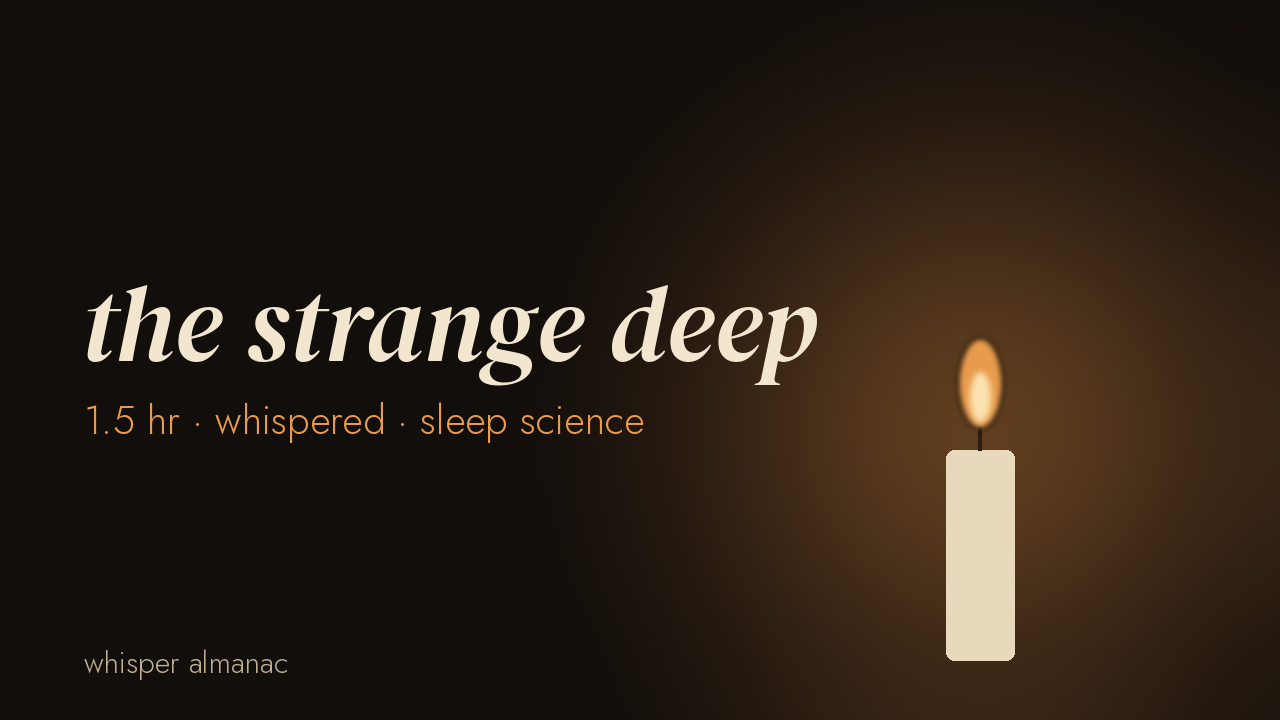
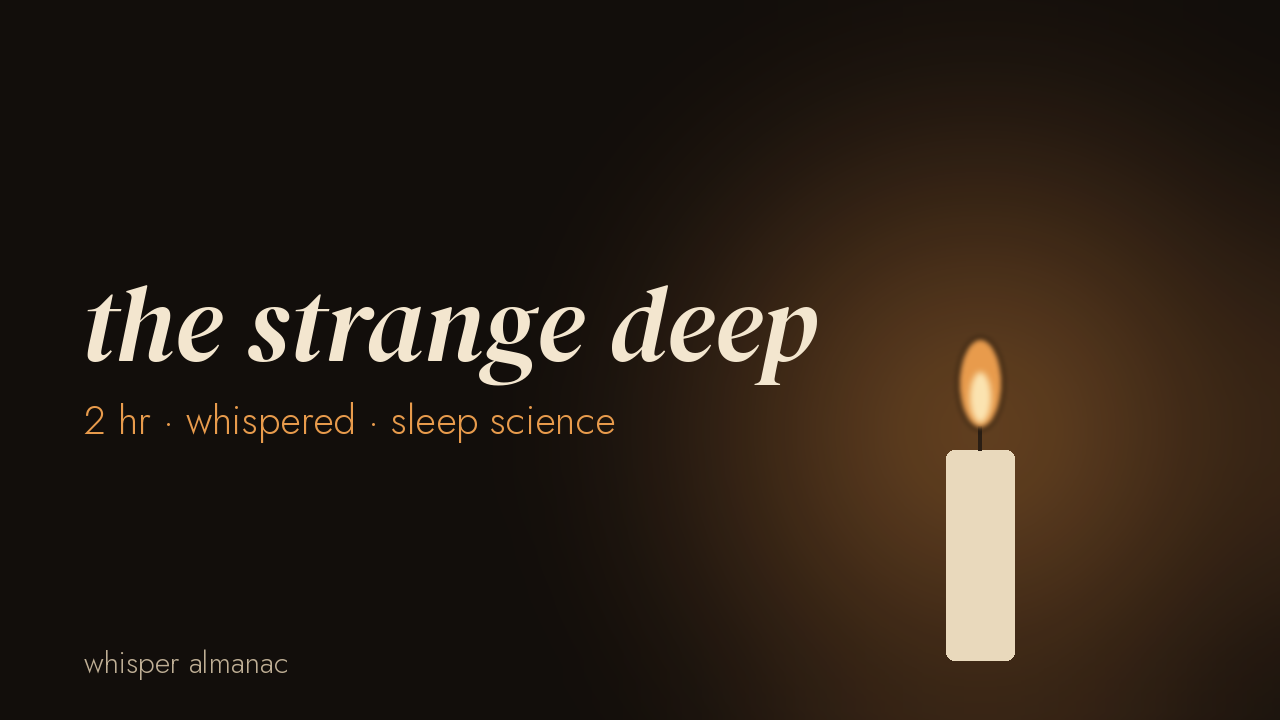
whisper: opening promise in the script check; 3 thumbnail variants per kit
Owner rulings, 8 Nov 2026 (spry brain):
- Every Whisper Almanac episode starts with a plain spoken promise (at most
  ~10 s) naming what it is and its real length, never mid-thought.
  loop/whisper_lane.py script_problems now fails a script without it
  (OPENING_*); render_script and the author write it; the 4 READY scripts
  carry it ("Two hours of the deep ocean, whispered slowly, to help you
  fall asleep.").
- thumbnail() makes variants A/B/C (thumbnail.png stays A, the uploaded
  one), checked by thumbnail_problems (size, dark, ember, distinct). Kits
  regenerated for the 4 waiting episodes.

Changed region(s): [[0.0625, 0.55, 0.5, 0.6111]]

diff --git a/loop/whisper_lane.py b/loop/whisper_lane.py
@@ -137,7 +137,7 @@ def render_script(slug: str, kind: str, title: str, sources: list[str], named: l
         body += ["", f"## Segment {i} · {src}", ""]
         for p in paras:
             body += [p, ""]
-    return "\n".join(head + body).rstrip() + "\n"
+    return add_opening("\n".join(head + body).rstrip() + "\n", slug)
 
 
 def spoken_text(p: dict) -> str:
@@ -196,6 +196,98 @@ def fmt_len(sec: float) -> str:
     return f"{h} h {m:02d} min"
 
 
+# ------------------------------------------------------------- the opening promise
+# The owner's ruling 8 Nov 2026 (spry brain): every episode starts with a
+# plain spoken promise of at most ~10 seconds, naming what it is and its real
+# length ("Two hours of the deep ocean, whispered slowly, to help you fall
+# asleep."), never mid-thought. It is the first paragraph of segment 1.
+OPENING_MAX_S = 10.0
+CONTINUING = re.compile(r"^(?:now|and|so|but|then|still|also|again|next|further|meanwhile|or|as|because)\b", re.I)
+_ONES = ["", "one", "two", "three", "four", "five", "six", "seven", "eight", "nine", "ten"]
+
+
+def spoken_length(seconds: float) -> str:
+    """The real length as a plain spoken phrase, rounded DOWN (never overstated):
+    to the half hour from an hour, to the quarter hour under it."""
+    if seconds >= 3600:
+        halves = int(seconds // 1800)
+        h, half = divmod(halves, 2)
+        base = "an hour" if h == 1 else f"{_ONES[h]} hours"
+        if half:
+            return "an hour and a half" if h == 1 else f"{_ONES[h]} and a half hours"
+        return base
+    q = int(seconds // 900)
+    return {3: "forty-five minutes", 2: "half an hour", 1: "fifteen minutes"}.get(
+        q, f"{max(1, int(seconds // 60))} minutes")
+
+
+def promise_subject(p: dict, c: dict) -> str:
+    if p.get("kind") == "affirmations":
+        t = c["affirmations"]["topics"].get(p.get("meta", {}).get("theme", "money"), {})
+        return t.get("promise") or t.get("topic") or "affirmations"
+    for e in c["episodes"]:
+        if e["slug"] == p.get("slug"):
+            return e.get("promise") or e["topic"]
+    return p.get("meta", {}).get("topic") or "sleep science"
+
+
+def opening_text(p: dict, seconds: float, c: dict) -> str:
+    s = f"{spoken_length(seconds)} of {promise_subject(p, c)}, whispered slowly, to help you fall asleep."
+    return s[0].upper() + s[1:]
+
+
+def _is_opening(para: str) -> bool:
+    return bool(re.search(r"\b(?:hours?|minutes)\b", para) and re.search(r"\basleep\b", para)
+                and len(W.WORD.findall(para)) <= 30)
+
+
+def add_opening(text: str, slug: str, c: dict | None = None) -> str:
+    """Put (or refresh) the opening promise as the first paragraph of segment 1,
+    naming the length the finished script estimates (the promise included)."""
+    import tempfile                                          # noqa: PLC0415
+    c = c or cfg()
+    m = re.search(r"^## Segment 1 · \S+\s*\n\n", text, re.M)
+    if not m:
+        return text
+    rest = text[m.end():]
+    first, _, after = rest.partition("\n\n")
+    if _is_opening(first):
+        rest = after
+    line = ""
+    for _ in range(3):                                       # the promise is part of the length
+        with tempfile.NamedTemporaryFile("w", suffix=".md", delete=False) as t:
+            t.write(text[:m.end()] + (line + "\n\n" if line else "") + rest)
+        try:
+            p = parse(t.name)
+        finally:
+            os.unlink(t.name)
+        new = opening_text({**p, "slug": slug}, estimate_seconds(p, c), c)
+        if new == line:
+            break
+        line = new
+    return text[:m.end()] + line + "\n\n" + rest
+
+
+def opening_problems(p: dict, seconds: float, c: dict) -> list[str]:
+    """A plain promise first: short, the real length, what it is, a whole thought."""
+    first = p["segments"][0]["paragraphs"][0] if p["segments"] and p["segments"][0]["paragraphs"] else ""
+    out = []
+    n = len(W.WORD.findall(first))
+    spoken = n / float(c["pacing"]["speech_wpm"]) * 60
+    if not first or spoken > OPENING_MAX_S + 0.5:
+        out.append(f"OPENING_TOO_LONG the first paragraph is {spoken:.0f} s of speech "
+                   f"(the promise is at most {OPENING_MAX_S:.0f} s): {first[:60]!r}")
+    want = spoken_length(seconds)
+    if want not in first.lower():
+        out.append(f"OPENING_LENGTH the opening must name the real length {want!r} "
+                   f"(estimated {fmt_len(seconds)}): {first[:60]!r}")
+    if not (re.search(r"\bwhisper", first, re.I) and re.search(r"\b(?:sleep|asleep)\b", first, re.I)):
+        out.append(f"OPENING_NOT_NAMED the opening must say it is whispered, for sleep: {first[:60]!r}")
+    if not first[:1].isupper() or CONTINUING.match(first) or not first.rstrip().endswith((".", "!", "?")):
+        out.append(f"OPENING_MID_THOUGHT the opening must be one whole thought, not a continuation: {first[:60]!r}")
+    return out
+
+
 # ------------------------------------------------------------- the checks
 GUARANTEE = re.compile(
     r"\$\s?\d|\bdollars?\b|\bguarantee|\bwill (?:get|receive|win|earn|make|have) (?:\$|\d|a raise|rich|money)|"
@@ -252,6 +344,7 @@ def script_problems(path: Path | str, others: list[Path] | None = None,
         else:
             out += [f"{where}: {x}" for x in affirmation_problems(text)]
     est = estimate_seconds(p, c)
+    out += opening_problems(p, est, c)
     lo, hi = c["lengths"][kind]["min_s"], c["lengths"][kind]["max_s"]
     if not lo <= est <= hi:
         out.append(f"LENGTH estimated {fmt_len(est)}, outside {fmt_len(lo)} to {fmt_len(hi)}")
@@ -397,19 +490,30 @@ def _font(name: str, size: int):
     return ImageFont.truetype(str(FONTS / name), size)
 
 
-def thumbnail(p: dict, seconds: float, out: Path, c: dict | None = None) -> Path:
+# The owner's ruling 8 Nov 2026: three thumbnail variants per episode, the
+# same brand, beside each other in the kit. A (thumbnail.png) is uploaded.
+# Each variant: (candle x, candle y, words x, words anchor "l"/"m", words top y).
+VARIANTS = {"a": (980, 430, 80, "l", 250),
+            "b": (300, 430, 1200, "r", 250),
+            "c": (640, 500, 640, "m", 110)}
+VARIANT_FILES = {"a": "thumbnail.png", "b": "thumbnail-b.png", "c": "thumbnail-c.png"}
+
+
+def thumbnail(p: dict, seconds: float, out: Path, c: dict | None = None,
+              variant: str = "a") -> Path:
     """1280x720: one candle in a dark room (the approved brand). An ember glow
     drawn in code, lowercase italic words, the real length. No faces, no
-    starfields, no pastel purple, no flashes."""
+    starfields, no pastel purple, no flashes. `variant` moves the candle and
+    the words (VARIANTS); the palette, fonts and words stay the brand's."""
     from PIL import Image, ImageDraw, ImageFilter          # noqa: PLC0415
     c = c or cfg()
     b = c["brand"]
     e = episode_cfg(p, c)
     W_, H_ = 1280, 720
+    cx, cy, tx, anchor, ty = VARIANTS[variant]
     img = Image.new("RGB", (W_, H_), b["ground"])
     glow = Image.new("RGB", (W_, H_), b["ground"])
     g = ImageDraw.Draw(glow)
-    cx, cy = 980, 430
     for r, col in ((330, b["glow"]), (190, "#5A3A1E"), (90, "#8A5A2A")):
         g.ellipse((cx - r, cy - r, cx + r, cy + r), fill=col)
     glow = glow.filter(ImageFilter.GaussianBlur(90))
@@ -435,15 +539,55 @@ def thumbnail(p: dict, seconds: float, out: Path, c: dict | None = None) -> Path
     if d.textlength(words, font=font) > 760:
         mid = words.rfind(" ", 0, len(words) // 2 + 4)
         lines = [words[:mid], words[mid + 1:]]
-    y = 250 - (len(lines) - 1) * size // 2
+    y = ty - (len(lines) - 1) * size // 2 if variant != "c" else ty
+    a = {"l": "la", "r": "ra", "m": "ma"}[anchor]
     for ln in lines:
-        d.text((80, y), ln, font=font, fill=b["ink"])
+        d.text((tx, y), ln, font=font, fill=b["ink"], anchor=a)
         y += int(size * 1.05)
     small = _font("Jost-Light.ttf", 40)
-    d.text((84, y + 30), f"{length_label(seconds)} · whispered · sleep science", font=small, fill=b["ember"])
-    d.text((84, 640), "whisper almanac", font=_font("Jost-Light.ttf", 30), fill="#BFAF95")
+    sx = tx + 4 if anchor == "l" else tx
+    d.text((sx, y + 30), f"{length_label(seconds)} · whispered · sleep science", font=small,
+           fill=b["ember"], anchor=a)
+    d.text((sx, 640) if variant != "c" else (84, 640), "whisper almanac",
+           font=_font("Jost-Light.ttf", 30), fill="#BFAF95", anchor=a if variant != "c" else "la")
     out.parent.mkdir(parents=True, exist_ok=True)
     img.save(out, "PNG", optimize=True)
+    return out
+
+
+def thumbnails(p: dict, seconds: float, d: Path, c: dict | None = None) -> list[Path]:
+    """The three variants, A (the uploaded thumbnail.png), B and C, in d."""
+    return [thumbnail(p, seconds, d / VARIANT_FILES[v], c, v) for v in VARIANTS]
+
+
+def thumbnail_problems(paths: list[Path], c: dict | None = None) -> list[str]:
+    """The brand's picture rules, checked on the files: three variants, each
+    1280x720 and dark (one candle in a dark room, dark only), the ember present,
+    and no two alike."""
+    from PIL import Image, ImageChops, ImageStat           # noqa: PLC0415
+    c = c or cfg()
+    ember = tuple(int(c["brand"]["ember"][i:i + 2], 16) for i in (1, 3, 5))
+    out = []
+    if len(paths) != len(VARIANTS):
+        out.append(f"THUMB_VARIANTS {len(paths)} thumbnails, {len(VARIANTS)} required")
+    imgs = []
+    for f in paths:
+        if not Path(f).exists():
+            out.append(f"THUMB_MISSING {Path(f).name}")
+            continue
+        im = Image.open(f).convert("RGB")
+        imgs.append((Path(f).name, im))
+        if im.size != (1280, 720):
+            out.append(f"THUMB_SIZE {Path(f).name} is {im.size[0]}x{im.size[1]}, not 1280x720")
+        if sum(ImageStat.Stat(im.convert("L")).mean) > 70:
+            out.append(f"THUMB_NOT_DARK {Path(f).name}: the brand is dark only")
+        small = im.resize((160, 90))
+        if not any(sum(abs(a - b) for a, b in zip(px, ember)) < 60 for px in small.getdata()):
+            out.append(f"THUMB_NO_EMBER {Path(f).name}: no candle flame")
+    for i in range(len(imgs)):
+        for j in range(i + 1, len(imgs)):
+            if not ImageChops.difference(imgs[i][1], imgs[j][1]).getbbox():
+                out.append(f"THUMB_SAME {imgs[i][0]} and {imgs[j][0]} are the same picture")
     return out
 
 
@@ -485,7 +629,9 @@ def kit(slug: str, measured_s: float | None = None, seg_starts: list[float] | No
             meta.update({k: prev[k] for k in UPLOAD_KEYS if k in prev})
     d = KITS / slug
     d.mkdir(parents=True, exist_ok=True)
-    thumbnail(p, secs, d / "thumbnail.png", c)
+    thumbs = thumbnails(p, secs, d, c)
+    meta["thumbnails"] = [x.name for x in thumbs]
+    meta["thumbnail_problems"] = thumbnail_problems(thumbs, c)
     (d / "kit.json").write_text(json.dumps(meta, indent=2, ensure_ascii=False) + "\n")
     return meta
 

diff --git a/loop/tests/test_whisper_lane.py b/loop/tests/test_whisper_lane.py
@@ -12,7 +12,10 @@
      the REAL one (rounded down), and the upload is private;
   e. the Mac night with no whisper sample is the GREEN owner_action stop
      WHISPER_SAMPLE_MISSING that names the exact place to drop the file -
-     and the same night with a sample present goes past that stop.
+     and the same night with a sample present goes past that stop;
+  b2. a script without the opening promise (the real length, whispered, for
+     sleep, a whole thought, at most ~10 s) fails the check;
+  d2. the kit makes 3 thumbnail variants, each 1280x720, dark, distinct.
 
 Every committed script in scripts/whisper/ must pass (zero scripts = fail).
 """
@@ -95,6 +98,23 @@ with tempfile.TemporaryDirectory() as td:
     twin = write("twin", segs)
     broken("copy", segs, "NOT_DISTINCT", others=[twin])
 
+    # the opening promise (owner, 8 Nov 2026): a script that starts mid-thought,
+    # without the plain promise naming what it is and its real length, fails
+    good_open = WL.parse(good)["segments"][0]["paragraphs"][0]
+    check(not [x for x in base if x.startswith("OPENING")], f"(b) a script with the promise fails: {base[:3]}")
+    for label, swap in (("no-opening", None),
+                        ("wrong-length", good_open.replace("Two hours", "Three hours")),
+                        ("not-named", "Two hours of the deep sea."),
+                        ("too-long", good_open + " " + " ".join(["The water is calm and dark."] * 4))):
+        txt = good.read_text()
+        txt = txt.replace(good_open + "\n\n", "" if swap is None else swap + "\n\n", 1)
+        bad = td / f"{label}.md"
+        bad.write_text(txt)
+        probs = WL.script_problems(bad, others=[])
+        check(any(x.startswith("OPENING") for x in probs), f"(b) {label}: the opening rule is not enforced: {probs[:3]}")
+    check(WL.spoken_length(2 * 3600 + 4 * 60) == "two hours" and WL.spoken_length(48 * 60) == "forty-five minutes",
+          "(b) the promise's length is not the real one, rounded down")
+
 # -- c. affirmations guardrail -----------------------------------------------
 for bad in ("You will get $10,000 by Friday.", "Your ex will text you tonight.",
             "My body heals itself as I sleep."):
@@ -121,6 +141,18 @@ check(any("LENGTH_NOT_REAL" in x for x in WL.meta_problems(meta, 3 * 3600 + 5, c
 pub = json.loads(json.dumps(meta))
 pub["body"]["status"]["privacyStatus"] = "public"
 check(any("PRIVATE" in x for x in WL.meta_problems(pub, secs, c)), "(d) a public upload passes")
+
+# -- d2. three thumbnail variants (owner, 8 Nov 2026), each in the brand ---
+with tempfile.TemporaryDirectory() as td:
+    ep = WL.parse(WL.SCRIPTS / "the-deep-ocean-at-night.md")
+    thumbs = WL.thumbnails(ep, WL.estimate_seconds(ep, c), Path(td), c)
+    check(len(thumbs) == 3 and thumbs[0].name == "thumbnail.png",
+          f"(d2) the kit does not make 3 variants with A as thumbnail.png: {[t.name for t in thumbs]}")
+    check(not WL.thumbnail_problems(thumbs, c), f"(d2) a variant breaks the brand: {WL.thumbnail_problems(thumbs, c)}")
+    check(any("THUMB_SAME" in x for x in WL.thumbnail_problems([thumbs[0]] * 3, c)),
+          "(d2) three copies of one picture pass as three variants")
+    check(any("THUMB_VARIANTS" in x for x in WL.thumbnail_problems(thumbs[:1], c)),
+          "(d2) one thumbnail passes as three variants")
 
 # -- e. the Mac night ---------------------------------------------------------
 with tempfile.TemporaryDirectory() as td:

diff --git a/loop/whisper_author.py b/loop/whisper_author.py
@@ -184,6 +184,7 @@ def _commit(out: Path, text: str) -> Path:
     tmp.write_text(text)
     scale = WL.fit_pause_scale(WL.parse(tmp))
     text = text.replace("**Written:**", f"**Pause scale:** {scale}\n**Written:**", 1)
+    text = WL.add_opening(text, out.stem)                    # the promise names the real length
     est = WL.estimate_seconds(WL.parse(tmp) | {"meta": {**WL.parse(tmp)["meta"], "pause scale": str(scale)}})
     text = re.sub(r"\*\*Estimated length:\*\* [^(]*", f"**Estimated length:** {WL.fmt_len(est)} ", text, 1)
     tmp.write_text(text)

diff --git a/scripts/whisper/the-strange-creatures-of-the-deep.md b/scripts/whisper/the-strange-creatures-of-the-deep.md
@@ -5,13 +5,15 @@
 **Status:** READY FOR VOICE
 **Sources:** 01-why-deep-sea-creatures-look-so-weird, 04-why-deep-sea-creatures-are-so-scary, 07-why-deep-sea-creatures-get-creepier-deeper, 09-what-is-the-scariest-deep-sea-creature, 08-what-creatures-live-in-the-deep-sea
 **Named:** bioluminescence
-**Estimated length:** 2 h 04 min (speech at the configured pace plus the pauses added in code)
+**Estimated length:** 2 h 05 min (speech at the configured pace plus the pauses added in code)
 **Pause scale:** 2.07
 **Written:** 2026-11-06
 **Topic:** deep sea creature science
 **Models:** gemini/gemini-3.5-flash-lite, gemini/gemini-3.8-flash, nvidia/nemotron-3-ultra-550b-a55b:free, nvidia/nemotron-3.5-super-vl:free
 
 ## Segment 1 · 01-why-deep-sea-creatures-look-so-weird
+
+Two hours of the strange animals of the deep sea, whispered slowly, to help you fall asleep.
 
 Now, let your mind drift down a little further, into the cool ocean waters. You might picture a photograph of a strange fish from the deep. That fish is not deformed or broken. The photograph shows what happens when an animal built for darkness meets our daylight. It meets our bright camera angle and our idea of what a normal body should look like.
 

diff --git a/scripts/whisper/the-deep-ocean-at-night.md b/scripts/whisper/the-deep-ocean-at-night.md
@@ -5,13 +5,15 @@
 **Status:** READY FOR VOICE
 **Sources:** 20-what-is-the-midnight-zone, 05-why-many-deep-sea-creatures-are-red, 06-why-some-deep-sea-creatures-are-transparent, 18-why-does-black-smoker-water-not-boil, 10-what-is-the-deepest-part-of-the-ocean
 **Named:** bioluminescence, chemosynthesis
-**Estimated length:** 2 h 01 min (speech at the configured pace plus the pauses added in code)
+**Estimated length:** 2 h 02 min (speech at the configured pace plus the pauses added in code)
 **Pause scale:** 2.5
 **Written:** 2026-11-06
 **Topic:** deep ocean science
 **Models:** gemini/gemini-3.6-flash
 
 ## Segment 1 · 20-what-is-the-midnight-zone
+
+Two hours of the deep ocean, whispered slowly, to help you fall asleep.
 
 Now, let your mind drift down a little further into the quiet ocean. At about a thousand meters deep, the last sunlight fades away completely. This dark region is known as the midnight zone. It stretches down to roughly four thousand meters beneath the surface. This vast layer holds around seventy percent of all the ocean water.
 

diff --git a/scripts/whisper/how-we-know-the-far-and-the-deep.md b/scripts/whisper/how-we-know-the-far-and-the-deep.md
@@ -13,6 +13,8 @@
 
 ## Segment 1 · how-do-scientists-know-about-other-galaxies
 
+Two hours of how we learned about far stars and the deep sea, whispered slowly, to help you fall asleep.
+
 Now, let your mind drift down a little further, into the quiet calm of the evening. Far away across the velvet dark rests the Andromeda galaxy, glowing like a soft cloud. It is more than two million light-years away from our quiet home on Earth. This distance was carefully measured by space agencies in the United States and Europe.
 
 The measurement comes from observing a very special kind of pulsing star. Its brightness rises and falls at a rate tied directly to its true inner light. The calculated distance is not a simple guess made in the dark. Watchers compare how bright the star looks from Earth to how bright it truly is.

diff --git a/scripts/whisper/affirmations-money-2026-w45.md b/scripts/whisper/affirmations-money-2026-w45.md
@@ -13,6 +13,8 @@
 
 ## Segment 1 · movement-1
 
+Forty-five minutes of money affirmations, whispered slowly, to help you fall asleep.
+
 I breathe in the quiet air of this safe room.
 
 My shoulders drop away from my ears.
